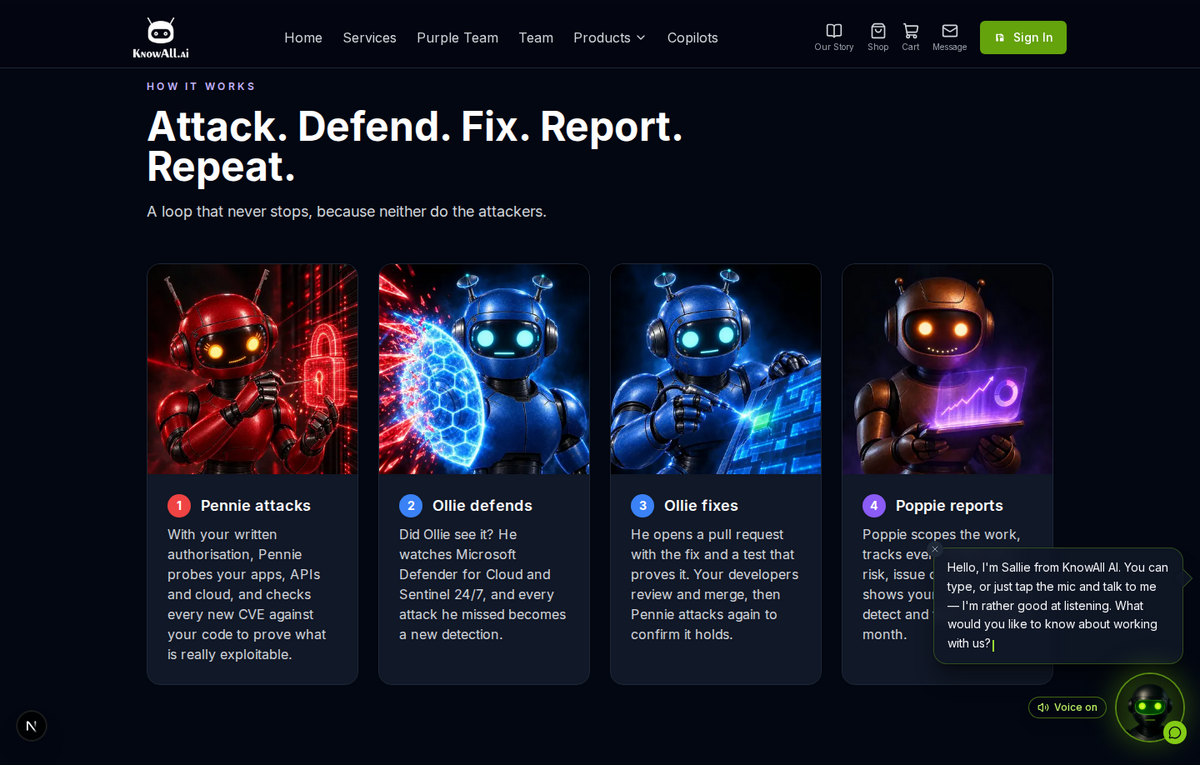
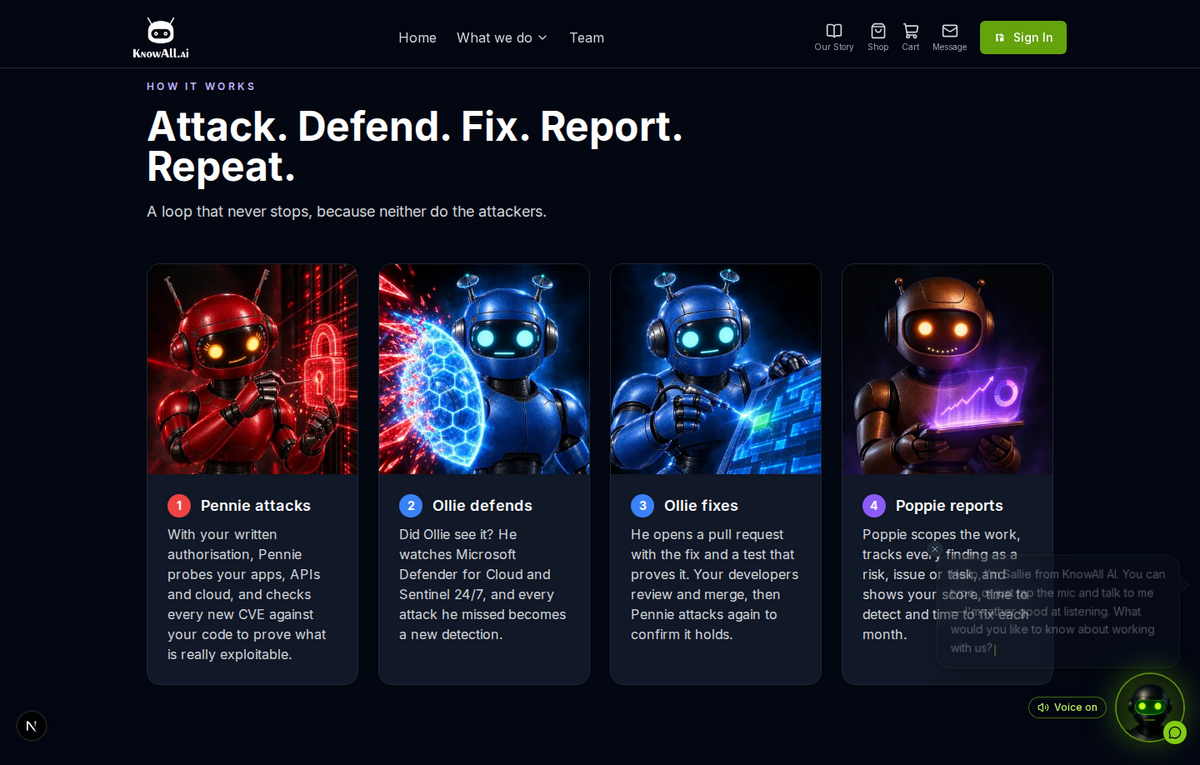
feat(nav): combine services and products into one "What we do" menu
The header mixed top-level service links (Services, Purple Team,
Copilots) with a Products dropdown. Home · What we do · Team now, with
Services and Products as labelled groups on desktop and mobile.

Also gives Poppie's report scene a locked blue padlock, closing the
story Pennie starts by picking the red one.

Refs #189

Changed region(s): [[0.7708, 0.6915, 0.9867, 0.8719], [0.2467, 0.0301, 0.5242, 0.0601], [0.555, 0.0301, 0.6167, 0.0601]]

diff --git a/components/header.tsx b/components/header.tsx
@@ -7,6 +7,8 @@ import {
   DropdownMenu,
   DropdownMenuContent,
   DropdownMenuItem,
+  DropdownMenuGroup,
+  DropdownMenuLabel,
   DropdownMenuTrigger,
 } from '@/components/ui/dropdown-menu';
 import Logo from '@/components/logo';
@@ -48,11 +50,13 @@ export default function Header() {
   // that clicking them scrolls to the top when already on the homepage, while
   // still navigating home from other routes. The Story route lives in the
   // right-hand cluster as a BookOpen icon rather than in this text nav.
-  const navLinks = [
-    { name: 'Home', href: '/#' },
-    { name: 'Services', href: '/#services' },
+  const navLinks = [{ name: 'Home', href: '/#' }];
+
+  // Services and products share one "What we do" menu, as two labelled groups.
+  const serviceLinks = [
+    { name: 'Our Services', href: '/#services' },
+    { name: 'Copilots & Agents', href: '/#copilots' },
     { name: 'Purple Team', href: '/purple-team' },
-    { name: 'Team', href: '/#team' },
   ];
 
   // NOTE: "Allie for Accounts" (#allie) joins this dropdown once PR #7 merges.
@@ -64,7 +68,12 @@ export default function Header() {
     { name: 'Sallie for Sales', href: '/#sallie' },
   ];
 
-  const trailingNavLinks = [{ name: 'Copilots', href: '/#copilots' }];
+  const trailingNavLinks = [{ name: 'Team', href: '/#team' }];
+
+  const menuGroups = [
+    { label: 'Services', links: serviceLinks },
+    { label: 'Products', links: productLinks },
+  ];
 
   // Next 16 no longer resets scroll to the top for the empty '/#' hash (section
   // hashes like '/#services' still scroll to their element). Scroll to the top
@@ -115,21 +124,28 @@ export default function Header() {
 
             <DropdownMenu>
               <DropdownMenuTrigger className="flex items-center gap-1 text-gray-300 hover:text-lime-500 transition-colors rounded-sm outline-hidden focus-visible:ring-2 focus-visible:ring-lime-500 focus-visible:ring-offset-2 focus-visible:ring-offset-gray-950 data-[state=open]:text-lime-500">
-                Products
+                What we do
                 <ChevronDown className="h-4 w-4" />
               </DropdownMenuTrigger>
               <DropdownMenuContent
                 align="start"
-                className="bg-gray-900 border-gray-800 text-gray-300"
+                className="grid grid-cols-2 gap-x-2 bg-gray-900 border-gray-800 text-gray-300 p-2"
               >
-                {productLinks.map((link) => (
-                  <DropdownMenuItem
-                    key={link.name}
-                    asChild
-                    className="focus:bg-gray-800 focus:text-lime-500 cursor-pointer"
-                  >
-                    <Link href={link.href}>{link.name}</Link>
-                  </DropdownMenuItem>
+                {menuGroups.map((group) => (
+                  <DropdownMenuGroup key={group.label} className="min-w-44">
+                    <DropdownMenuLabel className="text-xs font-medium uppercase tracking-wider text-gray-500">
+                      {group.label}
+                    </DropdownMenuLabel>
+                    {group.links.map((link) => (
+                      <DropdownMenuItem
+                        key={link.name}
+                        asChild
+                        className="focus:bg-gray-800 focus:text-lime-500 cursor-pointer"
+                      >
+                        <Link href={link.href}>{link.name}</Link>
+                      </DropdownMenuItem>
+                    ))}
+                  </DropdownMenuGroup>
                 ))}
               </DropdownMenuContent>
             </DropdownMenu>
@@ -217,22 +233,23 @@ export default function Header() {
                 </Link>
               ))}
 
-              {/* Products group */}
-              <div>
-                <span className="block text-gray-500 text-sm font-medium uppercase tracking-wider py-2">
-                  Products
-                </span>
-                {productLinks.map((link) => (
-                  <Link
-                    key={link.name}
-                    href={link.href}
-                    className="block pl-4 text-gray-300 hover:text-lime-500 transition-colors py-2"
-                    onClick={() => setIsMenuOpen(false)}
-                  >
-                    {link.name}
-                  </Link>
-                ))}
-              </div>
+              {menuGroups.map((group) => (
+                <div key={group.label}>
+                  <span className="block text-gray-500 text-sm font-medium uppercase tracking-wider py-2">
+                    {group.label}
+                  </span>
+                  {group.links.map((link) => (
+                    <Link
+                      key={link.name}
+                      href={link.href}
+                      className="block pl-4 text-gray-300 hover:text-lime-500 transition-colors py-2"
+                      onClick={() => setIsMenuOpen(false)}
+                    >
+                      {link.name}
+                    </Link>
+                  ))}
+                </div>
+              ))}
 
               {trailingNavLinks.map((link) => (
                 <Link

diff --git a/tests/unit/components/header.test.tsx b/tests/unit/components/header.test.tsx
@@ -42,14 +42,30 @@ describe('Header', () => {
 
     // Section links are prefixed with '/' so they resolve from other routes too.
     expect(screen.getByRole('link', { name: 'Home' })).toHaveAttribute('href', '/#');
-    expect(screen.getByRole('link', { name: 'Services' })).toHaveAttribute('href', '/#services');
-    expect(screen.getByRole('link', { name: 'Copilots' })).toHaveAttribute('href', '/#copilots');
+    expect(screen.getByRole('link', { name: 'Team' })).toHaveAttribute('href', '/#team');
+    // Services and products (Zaplie, Zapdesk, …) share one "What we do" dropdown.
+    expect(screen.getByRole('button', { name: 'What we do' })).toBeInTheDocument();
+  });
+
+  it('groups services and products in the mobile menu', () => {
+    renderHeader();
+    fireEvent.click(screen.getByRole('button', { name: 'Toggle menu' }));
+
+    expect(screen.getByText('Services')).toBeInTheDocument();
+    expect(screen.getByText('Products')).toBeInTheDocument();
+    expect(screen.getByRole('link', { name: 'Our Services' })).toHaveAttribute(
+      'href',
+      '/#services'
+    );
+    expect(screen.getByRole('link', { name: 'Copilots & Agents' })).toHaveAttribute(
+      'href',
+      '/#copilots'
+    );
     expect(screen.getByRole('link', { name: 'Purple Team' })).toHaveAttribute(
       'href',
       '/purple-team'
     );
-    // The individual products (Zaplie, Zapdesk, …) now live under a Products dropdown.
-    expect(screen.getByRole('button', { name: 'Products' })).toBeInTheDocument();
+    expect(screen.getByRole('link', { name: 'Zaplie' })).toHaveAttribute('href', '/#zaplie');
   });
 
   it('renders Our Story and Shop route links', () => {
@@ -169,9 +185,9 @@ describe('Header', () => {
     renderHeader();
 
     fireEvent.click(screen.getByRole('button', { name: 'Toggle menu' }));
-    const mobileLinks = screen.getAllByRole('link', { name: 'Services' });
+    const mobileLinks = screen.getAllByRole('link', { name: 'Team' });
     fireEvent.click(mobileLinks[1]);
 
-    expect(screen.getAllByRole('link', { name: 'Services' })).toHaveLength(1);
+    expect(screen.getAllByRole('link', { name: 'Team' })).toHaveLength(1);
   });
 });

diff --git a/tests/mobile-navigation.spec.ts b/tests/mobile-navigation.spec.ts
@@ -49,9 +49,10 @@ test.describe('Mobile Navigation', () => {
 
     const mobileNav = page.locator(mobileNavSelector);
     await expect(mobileNav.getByRole('link', { name: 'Home' })).toBeVisible();
-    await expect(mobileNav.getByRole('link', { name: 'Services' })).toBeVisible();
+    await expect(mobileNav.getByRole('link', { name: 'Our Services' })).toBeVisible();
+    await expect(mobileNav.getByRole('link', { name: 'Purple Team' })).toBeVisible();
     await expect(mobileNav.getByRole('link', { name: 'Zaplie' })).toBeVisible();
-    await expect(mobileNav.getByRole('link', { name: 'Copilots' })).toBeVisible();
+    await expect(mobileNav.getByRole('link', { name: 'Copilots & Agents' })).toBeVisible();
     // Contact Us was replaced by the Nostr Sign In button in the mobile menu
     await expect(mobileNav.getByRole('button', { name: 'Sign In' })).toBeVisible();
   });
@@ -66,7 +67,7 @@ test.describe('Mobile Navigation', () => {
   test('Selecting a link closes the mobile menu', async ({ page }) => {
     await openMobileMenu(page);
 
-    await page.locator(mobileNavSelector).getByRole('link', { name: 'Services' }).click();
+    await page.locator(mobileNavSelector).getByRole('link', { name: 'Our Services' }).click();
     await expect(page.locator(mobileNavSelector)).toHaveCount(0);
   });
 });

diff --git a/app/purple-team/page.tsx b/app/purple-team/page.tsx
@@ -50,7 +50,7 @@ const steps = [
   },
   {
     image: '/images/purple-team/poppie-report.jpg',
-    alt: 'Poppie, the copper robot, holding a tablet projecting a rising purple chart',
+    alt: 'Poppie, the copper robot, holding a tablet projecting a locked blue padlock and a rising chart',
     title: 'Poppie reports',
     text: 'Poppie scopes the work, tracks every finding as a risk, issue or task, and shows your score, time to detect and time to fix each month.',
     accent: 'bg-violet-500',

diff --git a/tests/services-section.spec.ts b/tests/services-section.spec.ts
@@ -47,7 +47,8 @@ test.describe('Services Section', () => {
   });
 
   test('Services navigation link points at the services section', async ({ page }) => {
-    const servicesLink = page.locator('header nav a', { hasText: 'Services' });
+    await page.getByRole('button', { name: 'What we do' }).click();
+    const servicesLink = page.getByRole('menuitem', { name: 'Our Services' });
     await expect(servicesLink).toHaveAttribute('href', '/#services');
   });
 });
